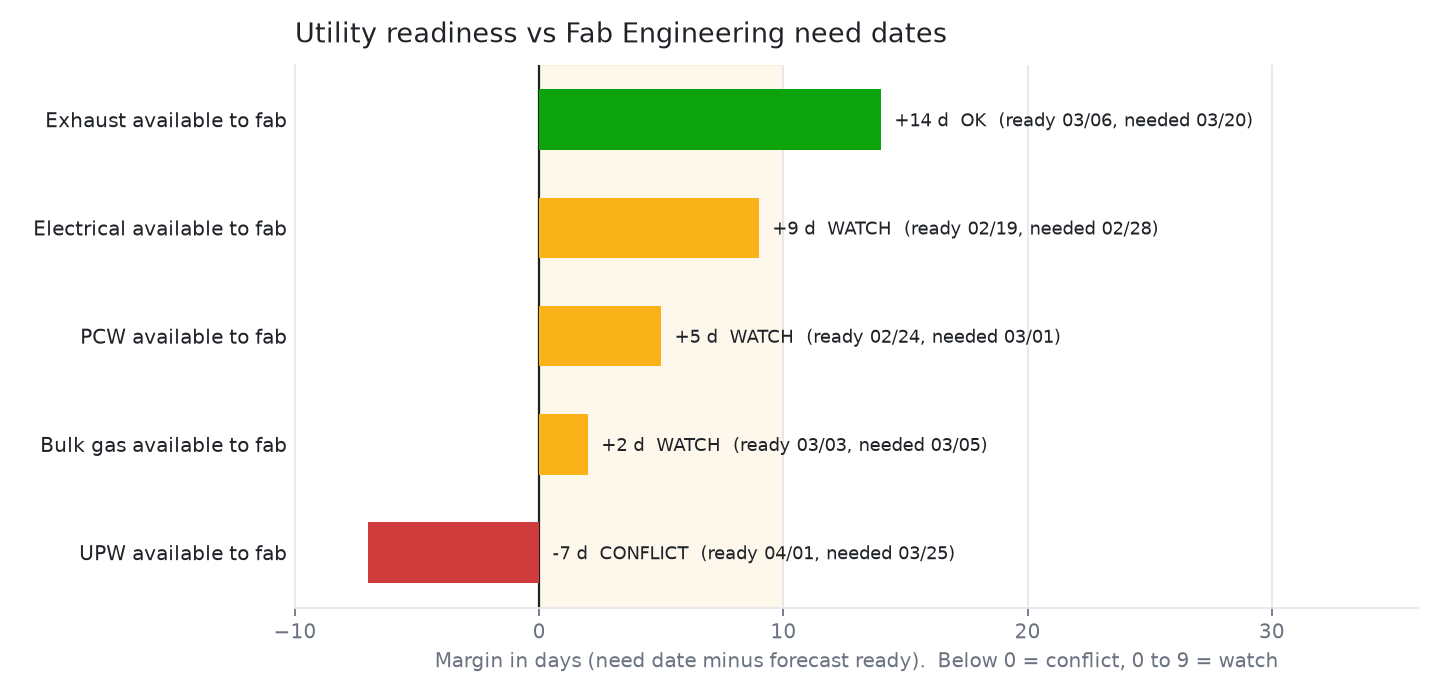
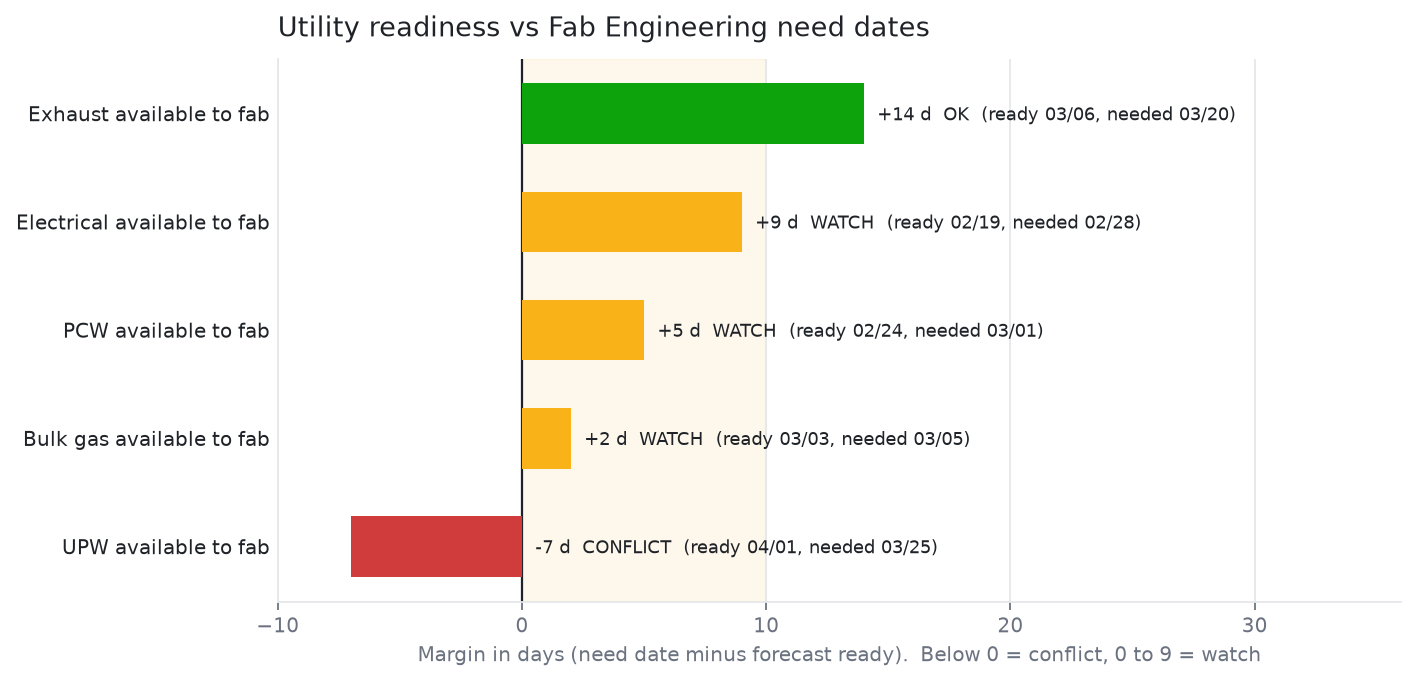
Add Streamlit web app with live what-if; share one analysis engine across CLI, pipeline and app

diff --git a/streamlit_app.py b/streamlit_app.py
@@ -1,0 +1,126 @@
+"""
+streamlit_app.py
+Interactive web version of schedule-health.
+
+    streamlit run streamlit_app.py
+
+Load the sample schedule or upload your own CSV exports, edit durations or logic in the
+table to test a what-if, and every result (critical path, float, need-date margins,
+baseline slip, quality checks, charts) recalculates at once, compared with the schedule
+as loaded. The same engine (schedule_health.analyze) feeds the command line tool, the
+Power BI pipeline and this app.
+"""
+from datetime import date
+from pathlib import Path
+
+import matplotlib.pyplot as plt
+import pandas as pd
+import streamlit as st
+
+import visualize as vz
+from schedule_health import WATCH_DAYS, analyze
+
+HERE = Path(__file__).resolve().parent
+
+st.set_page_config(page_title="Schedule health", layout="wide")
+
+
+def read_csv(src):
+    return pd.read_csv(src, dtype=str).fillna("")
+
+
+def run(schedule, needs, start):
+    try:
+        return analyze(schedule, needs, start), None
+    except Exception as e:  # logic loop, unknown predecessor, bad duration, missing milestone
+        return None, str(e)
+
+
+def show(fig):
+    st.pyplot(fig, width="stretch")
+    plt.close(fig)
+
+
+# ---- Sidebar: data source and project start ----
+with st.sidebar:
+    st.header("Schedule data")
+    source = st.radio("Source", ["Sample utility schedule", "Upload my CSV files"])
+    if source == "Upload my CSV files":
+        up_s = st.file_uploader("Schedule export", type="csv",
+                                help="Columns: id, name, area, duration, predecessors, baseline_finish")
+        up_n = st.file_uploader("Need dates", type="csv",
+                                help="Columns: utility_milestone, need_date, needed_by")
+        if not (up_s and up_n):
+            st.info("Upload both files to start.")
+            st.stop()
+        schedule0, needs0 = read_csv(up_s), read_csv(up_n)
+    else:
+        schedule0 = read_csv(HERE / "sample_infra_schedule.csv")
+        needs0 = read_csv(HERE / "need_dates.csv")
+    start = st.date_input("Project start", date(2026, 1, 5))
+    st.caption("Link syntax: A130 (finish-to-start), A110SS+15 (start-to-start, 15 d lag), "
+               "A500FF-3 (finish-to-finish, 3 d lead). Separate links with ;")
+    st.caption(f"Margin under {WATCH_DAYS} days = WATCH, below 0 = CONFLICT. Durations are calendar days.")
+
+st.title("Schedule health")
+st.caption("Critical path, float, utility readiness against need dates, baseline slip and "
+           "DCMA-style checks. Sample data is invented for illustration.")
+
+# ---- Editable inputs: the what-if ----
+with st.expander("Schedule and need dates (edit any cell to test a what-if)", expanded=False):
+    schedule = st.data_editor(schedule0, num_rows="dynamic", width="stretch", key="sched")
+    needs = st.data_editor(needs0, num_rows="dynamic", width="stretch", key="needs")
+    st.caption("Example: set A210 (UPW polish loop) to 23 days and watch the UPW conflict clear.")
+
+base, base_err = run(schedule0, needs0, start)
+res, err = run(schedule, needs, start)
+if err:
+    st.error(f"The schedule could not be calculated: {err}")
+    st.stop()
+edited = base is not None and not (schedule.equals(schedule0) and needs.equals(needs0))
+
+act, nd = res["activities"], res["need_dates"]
+pact, pnd = vz.prepare(act, nd)
+
+# ---- Headline numbers ----
+worst = nd.sort_values("margin_days").iloc[0]
+c1, c2, c3, c4 = st.columns(4)
+c1.metric("Forecast finish", f"{res['finish']:%m/%d/%Y}",
+          delta=f"{(res['finish'] - base['finish']).days:+d} d vs as loaded" if edited else None,
+          delta_color="inverse")
+c2.metric("Worst need-date margin", f"{int(worst.margin_days):+d} d",
+          delta=(f"{int(worst.margin_days) - int(base['need_dates'].margin_days.min()):+d} d vs as loaded"
+                 if edited else None))
+c3.metric("Utility conflicts", int((nd.status == "CONFLICT").sum()),
+          help=f"{int((nd.status == 'WATCH').sum())} more on WATCH")
+c4.metric("Critical activities", int(act.critical.sum()), help=f"of {len(act)} activities")
+st.markdown(f"**Worst:** {worst.milestone} {worst.name}, ready {worst.forecast_ready:%m/%d}, "
+            f"needed {worst.need_date:%m/%d} ({worst.status}).  "
+            f"**Critical path:** {' > '.join(act[act.critical].sort_values('early_start').id)}")
+
+# ---- Detail tabs ----
+t_gantt, t_ready, t_slip, t_qc, t_report = st.tabs(
+    ["Gantt chart", "Utility readiness", "Baseline slip", "Quality checks", "Report and downloads"])
+
+with t_gantt:
+    show(vz.gantt(pact, pnd))
+    st.dataframe(act, width="stretch", hide_index=True)
+
+with t_ready:
+    show(vz.readiness(pnd))
+    st.dataframe(nd, width="stretch", hide_index=True)
+
+with t_slip:
+    show(vz.slip(pact))
+
+with t_qc:
+    st.dataframe(res["quality_checks"], width="stretch", hide_index=True)
+    st.caption("Simplified subset of the DCMA 14-point schedule assessment.")
+
+with t_report:
+    st.code(res["report"], language=None)
+    d1, d2, d3, d4 = st.columns(4)
+    d1.download_button("Health report (.txt)", res["report"], "health_report.txt")
+    d2.download_button("Activities (.csv)", act.to_csv(index=False), "activities.csv")
+    d3.download_button("Need dates (.csv)", nd.to_csv(index=False), "need_date_alignment.csv")
+    d4.download_button("Quality checks (.csv)", res["quality_checks"].to_csv(index=False), "quality_checks.csv")

diff --git a/schedule_health.py b/schedule_health.py
@@ -128,12 +128,11 @@ def cpm(df):
     return acts, succs, end
 
 
-def main():
-    sched_file = sys.argv[1] if len(sys.argv) > 1 else HERE / "sample_infra_schedule.csv"
-    need_file = sys.argv[2] if len(sys.argv) > 2 else HERE / "need_dates.csv"
-    start = date.fromisoformat(sys.argv[3]) if len(sys.argv) > 3 else date(2026, 1, 5)
-
-    df = pd.read_csv(sched_file, dtype=str).fillna("")
+def analyze(df, need, start):
+    """Run every check in memory. df and need are tables of strings (as read from the CSVs).
+    Returns a dict of DataFrames plus the text report; nothing is written to disk.
+    Used by main() below and by the Streamlit app."""
+    df = df.astype(str).replace({"nan": "", "None": ""})
     acts, succs, end = cpm(df)
     day = lambda n: start + timedelta(days=n)
 
@@ -149,14 +148,14 @@ def main():
     out["baseline_finish"] = base
     out["slip_days"] = [(f - b).days if pd.notna(b) else None
                         for f, b in zip(out.early_finish, base)]
-    out.to_csv(HERE / "out_activities.csv", index=False)
 
     # Utility readiness versus Fab Engineering need dates.
-    need = pd.read_csv(need_file)
     rows = []
     for r in need.itertuples():
+        if r.utility_milestone not in acts:
+            raise ValueError(f"Need-date milestone {r.utility_milestone} is not in the schedule")
         fc = day(acts[r.utility_milestone]["ef"])
-        nd = date.fromisoformat(r.need_date)
+        nd = pd.Timestamp(r.need_date).date()
         margin = (nd - fc).days
         status = "CONFLICT" if margin < 0 else "WATCH" if margin < WATCH_DAYS else "OK"
         name = df.loc[df.id == r.utility_milestone, "name"].iloc[0]
@@ -165,7 +164,6 @@ def main():
                      "margin_days": margin, "status": status,
                      "needed_by": r.needed_by})
     align = pd.DataFrame(rows).sort_values("margin_days")
-    align.to_csv(HERE / "out_need_date_alignment.csv", index=False)
 
     # DCMA-style quality checks (simplified subset of the 14-point assessment).
     n_links = sum(len(acts[a]["links"]) for a in acts)
@@ -188,7 +186,6 @@ def main():
         ("Negative float activities", sum(1 for a in acts if acts[a]["tf"] < 0), "0"),
     ], columns=["check", "value", "target"])
     checks["value"] = [f"{v:g}" for v in checks["value"]]
-    checks.to_csv(HERE / "out_quality_checks.csv", index=False)
 
     # Text health report for leadership.
     crit = out[out.critical].sort_values("early_start")
@@ -210,9 +207,24 @@ def main():
     lines += ["", "Schedule quality checks:"]
     lines += [f"  {r.check}: {r.value} (target {r.target})" for r in checks.itertuples()]
     report = "\n".join(lines)
+    return {"activities": out, "need_dates": align, "quality_checks": checks,
+            "report": report, "finish": day(end), "duration_days": end}
+
+
+def main():
+    sched_file = sys.argv[1] if len(sys.argv) > 1 else HERE / "sample_infra_schedule.csv"
+    need_file = sys.argv[2] if len(sys.argv) > 2 else HERE / "need_dates.csv"
+    start = date.fromisoformat(sys.argv[3]) if len(sys.argv) > 3 else date(2026, 1, 5)
+
+    df = pd.read_csv(sched_file, dtype=str).fillna("")
+    need = pd.read_csv(need_file, dtype=str).fillna("")
+    r = analyze(df, need, start)
+    r["activities"].to_csv(HERE / "out_activities.csv", index=False)
+    r["need_dates"].to_csv(HERE / "out_need_date_alignment.csv", index=False)
+    r["quality_checks"].to_csv(HERE / "out_quality_checks.csv", index=False)
     with open(HERE / "out_health_report.txt", "w", encoding="utf-8") as f:
-        f.write(report + "\n")
-    print(report)
+        f.write(r["report"] + "\n")
+    print(r["report"])
 
 
 if __name__ == "__main__":

diff --git a/visualize.py b/visualize.py
@@ -43,15 +43,20 @@ def dates(s):
     return pd.to_datetime(s, format="mixed")
 
 
-def load():
-    act = pd.read_csv(HERE / "out_activities.csv")
+def prepare(act, need):
+    """Give the activity and need-date tables real date and boolean types for plotting."""
+    act, need = act.copy(), need.copy()
     for c in ("early_start", "early_finish", "late_finish", "baseline_finish"):
         act[c] = dates(act[c])
     act["critical"] = act["critical"].astype(str).str.upper().eq("TRUE")
-    need = pd.read_csv(HERE / "out_need_date_alignment.csv")
+    act["slip_days"] = pd.to_numeric(act["slip_days"], errors="coerce")
     for c in ("forecast_ready", "need_date"):
         need[c] = dates(need[c])
     return act, need
+
+
+def load():
+    return prepare(pd.read_csv(HERE / "out_activities.csv"), pd.read_csv(HERE / "out_need_date_alignment.csv"))
 
 
 def gantt(act, need):
@@ -99,8 +104,7 @@ def gantt(act, need):
     ax.legend(handles=legend, loc="upper center", ncol=6, frameon=False, fontsize=8,
               bbox_to_anchor=(0.4, -0.05))
     fig.tight_layout()
-    fig.savefig(HERE / "chart_gantt.png", dpi=160, bbox_inches="tight")
-    plt.close(fig)
+    return fig
 
 
 def readiness(need):
@@ -121,8 +125,7 @@ def readiness(need):
     ax.tick_params(axis="y", length=0)
     ax.set_title("Utility readiness vs Fab Engineering need dates", loc="left", fontsize=12, color=INK, pad=10)
     fig.tight_layout()
-    fig.savefig(HERE / "chart_utility_readiness.png", dpi=160)
-    plt.close(fig)
+    return fig
 
 
 def slip(act):
@@ -148,15 +151,15 @@ def slip(act):
         ax.legend(handles=kinds, frameon=False, fontsize=8, loc="upper left", bbox_to_anchor=(1.0, 1.0))
     ax.set_title("Slip vs baseline", loc="left", fontsize=12, color=INK, pad=10)
     fig.tight_layout()
-    fig.savefig(HERE / "chart_baseline_slip.png", dpi=160, bbox_inches="tight")
-    plt.close(fig)
+    return fig
 
 
 def main():
     act, need = load()
-    gantt(act, need)
-    readiness(need)
-    slip(act)
+    for fig, name in ((gantt(act, need), "chart_gantt.png"), (readiness(need), "chart_utility_readiness.png"),
+                      (slip(act), "chart_baseline_slip.png")):
+        fig.savefig(HERE / name, dpi=160, bbox_inches="tight")
+        plt.close(fig)
     print("wrote chart_gantt.png, chart_utility_readiness.png, chart_baseline_slip.png")
 
 

diff --git a/README.md b/README.md
@@ -26,6 +26,49 @@ python schedule_health.py sample_infra_schedule.csv need_dates.csv 2026-01-05
 python visualize.py
 ```
 
+## Interactive web app (Streamlit)
+
+```
+streamlit run streamlit_app.py
+```
+
+Opens in the browser at http://localhost:8501. Load the sample schedule or upload your own
+CSV exports, then edit any duration or link in the table to test a what-if: the forecast
+finish, need-date margins, critical path, charts and quality checks recalculate at once and
+show the change against the schedule as loaded. The report and every table can be
+downloaded. The app, the command line tool and the Power BI pipeline all use the same engine
+(`schedule_health.analyze`).
+
+## Automated reporting pipeline into Power BI
+
+`pipeline.py` turns the tool into a daily, unattended feed for a Power BI report:
+
+```
+python pipeline.py --data-date 2026-02-02 --charts
+```
+
+Each run:
+
+1. runs the CPM and checks on the latest schedule export;
+2. passes a **quality gate** (unique IDs, calculated dates present, a critical path exists,
+   every need-date milestone found). If anything fails, nothing is published and the
+   report keeps the last good data, so leadership never sees wrong numbers;
+3. publishes stable tables to `powerbi/current/` (activities, need dates, quality checks,
+   KPIs), written atomically so Power BI never reads a half-written file;
+4. adds a dated snapshot to `powerbi/history/` (a rerun on the same data date replaces it),
+   so the report can trend forecast finish, float erosion and need-date margins;
+5. logs the run (time, status, finish, worst margin, error message) to `powerbi/refresh_log.csv`.
+
+Connect Power BI with the queries in `powerbi/queries.pq` (Power Query M, typed columns,
+plus suggested DAX measures). Schedule the run daily with Windows Task Scheduler:
+
+```
+schtasks /Create /TN "Schedule health pipeline" /TR "C:\path\to\schedule-health\run_pipeline.bat" /SC DAILY /ST 06:00
+```
+
+In the Power BI service, keep the `powerbi` folder in OneDrive or SharePoint (or use an
+on-premises data gateway) and set the dataset's scheduled refresh to run after the pipeline.
+
 ## Inputs
 
 | File | Columns |
@@ -77,8 +120,7 @@ Utility readiness vs need dates (worst first):
 - No resources or date constraints yet.
 - Sample data is invented for illustration.
 
-Planned next steps: read Primavera P6 XER exports directly, add work calendars, and track
-float erosion between updates.
+Planned next steps: read Primavera P6 XER exports directly and add work calendars.
 
 ## License
 
